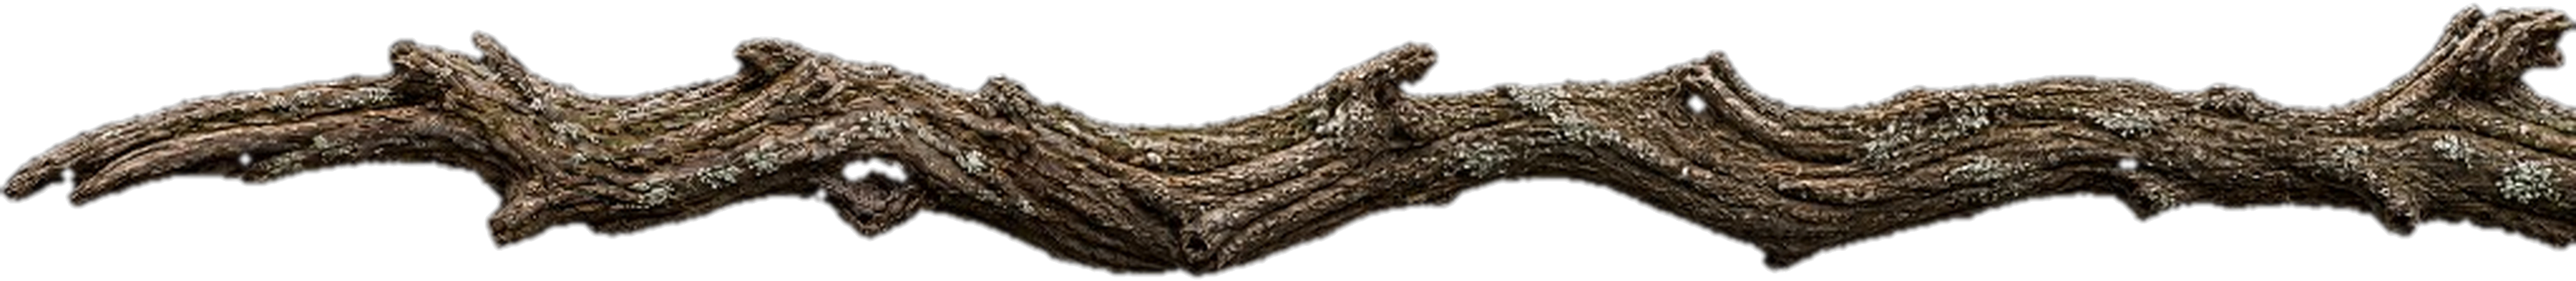
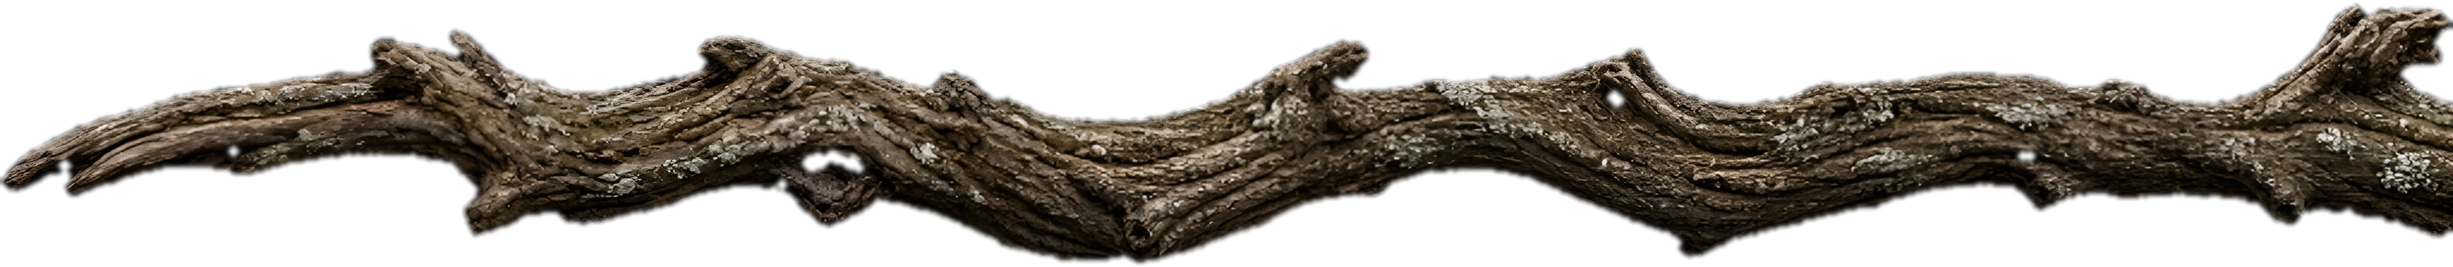
Swap in the upscaled Weeper's Loom branch art.

diff --git a/public/index.html b/public/index.html
@@ -34,7 +34,7 @@
 	<style>#map-overlay{transform:translateY(100vh);opacity:0}</style>
 	<link id="dynamic-css" rel="stylesheet" href="css/styles.css?rev=37">
 	<script>
-		const ASSET_REV = '68';
+		const ASSET_REV = '69';
 		const link = document.getElementById('dynamic-css');
 		link.href = `css/styles.css?rev=${ASSET_REV}`;
 	</script>
@@ -642,7 +642,7 @@
 </div>
 <div class="container" id="dreamcatcher">
 	<div class="dreamcatcher-branch-wrap">
-		<img class="dreamcatcher-branch" src="img/dreamcatcher-branch.png?rev=34" alt="" draggable="false" aria-hidden="true">
+		<img class="dreamcatcher-branch" src="img/dreamcatcher-branch.png?rev=69" alt="" draggable="false" aria-hidden="true">
 		<div class="dreamcatcher-stage">
 			<div class="dreamcatcher-hang" id="dreamcatcher-hang">
 				<img class="dreamcatcher-hang-img" src="img/dreamcatcher-hang.png?rev=34" alt="A weathered dreamcatcher" draggable="false">
